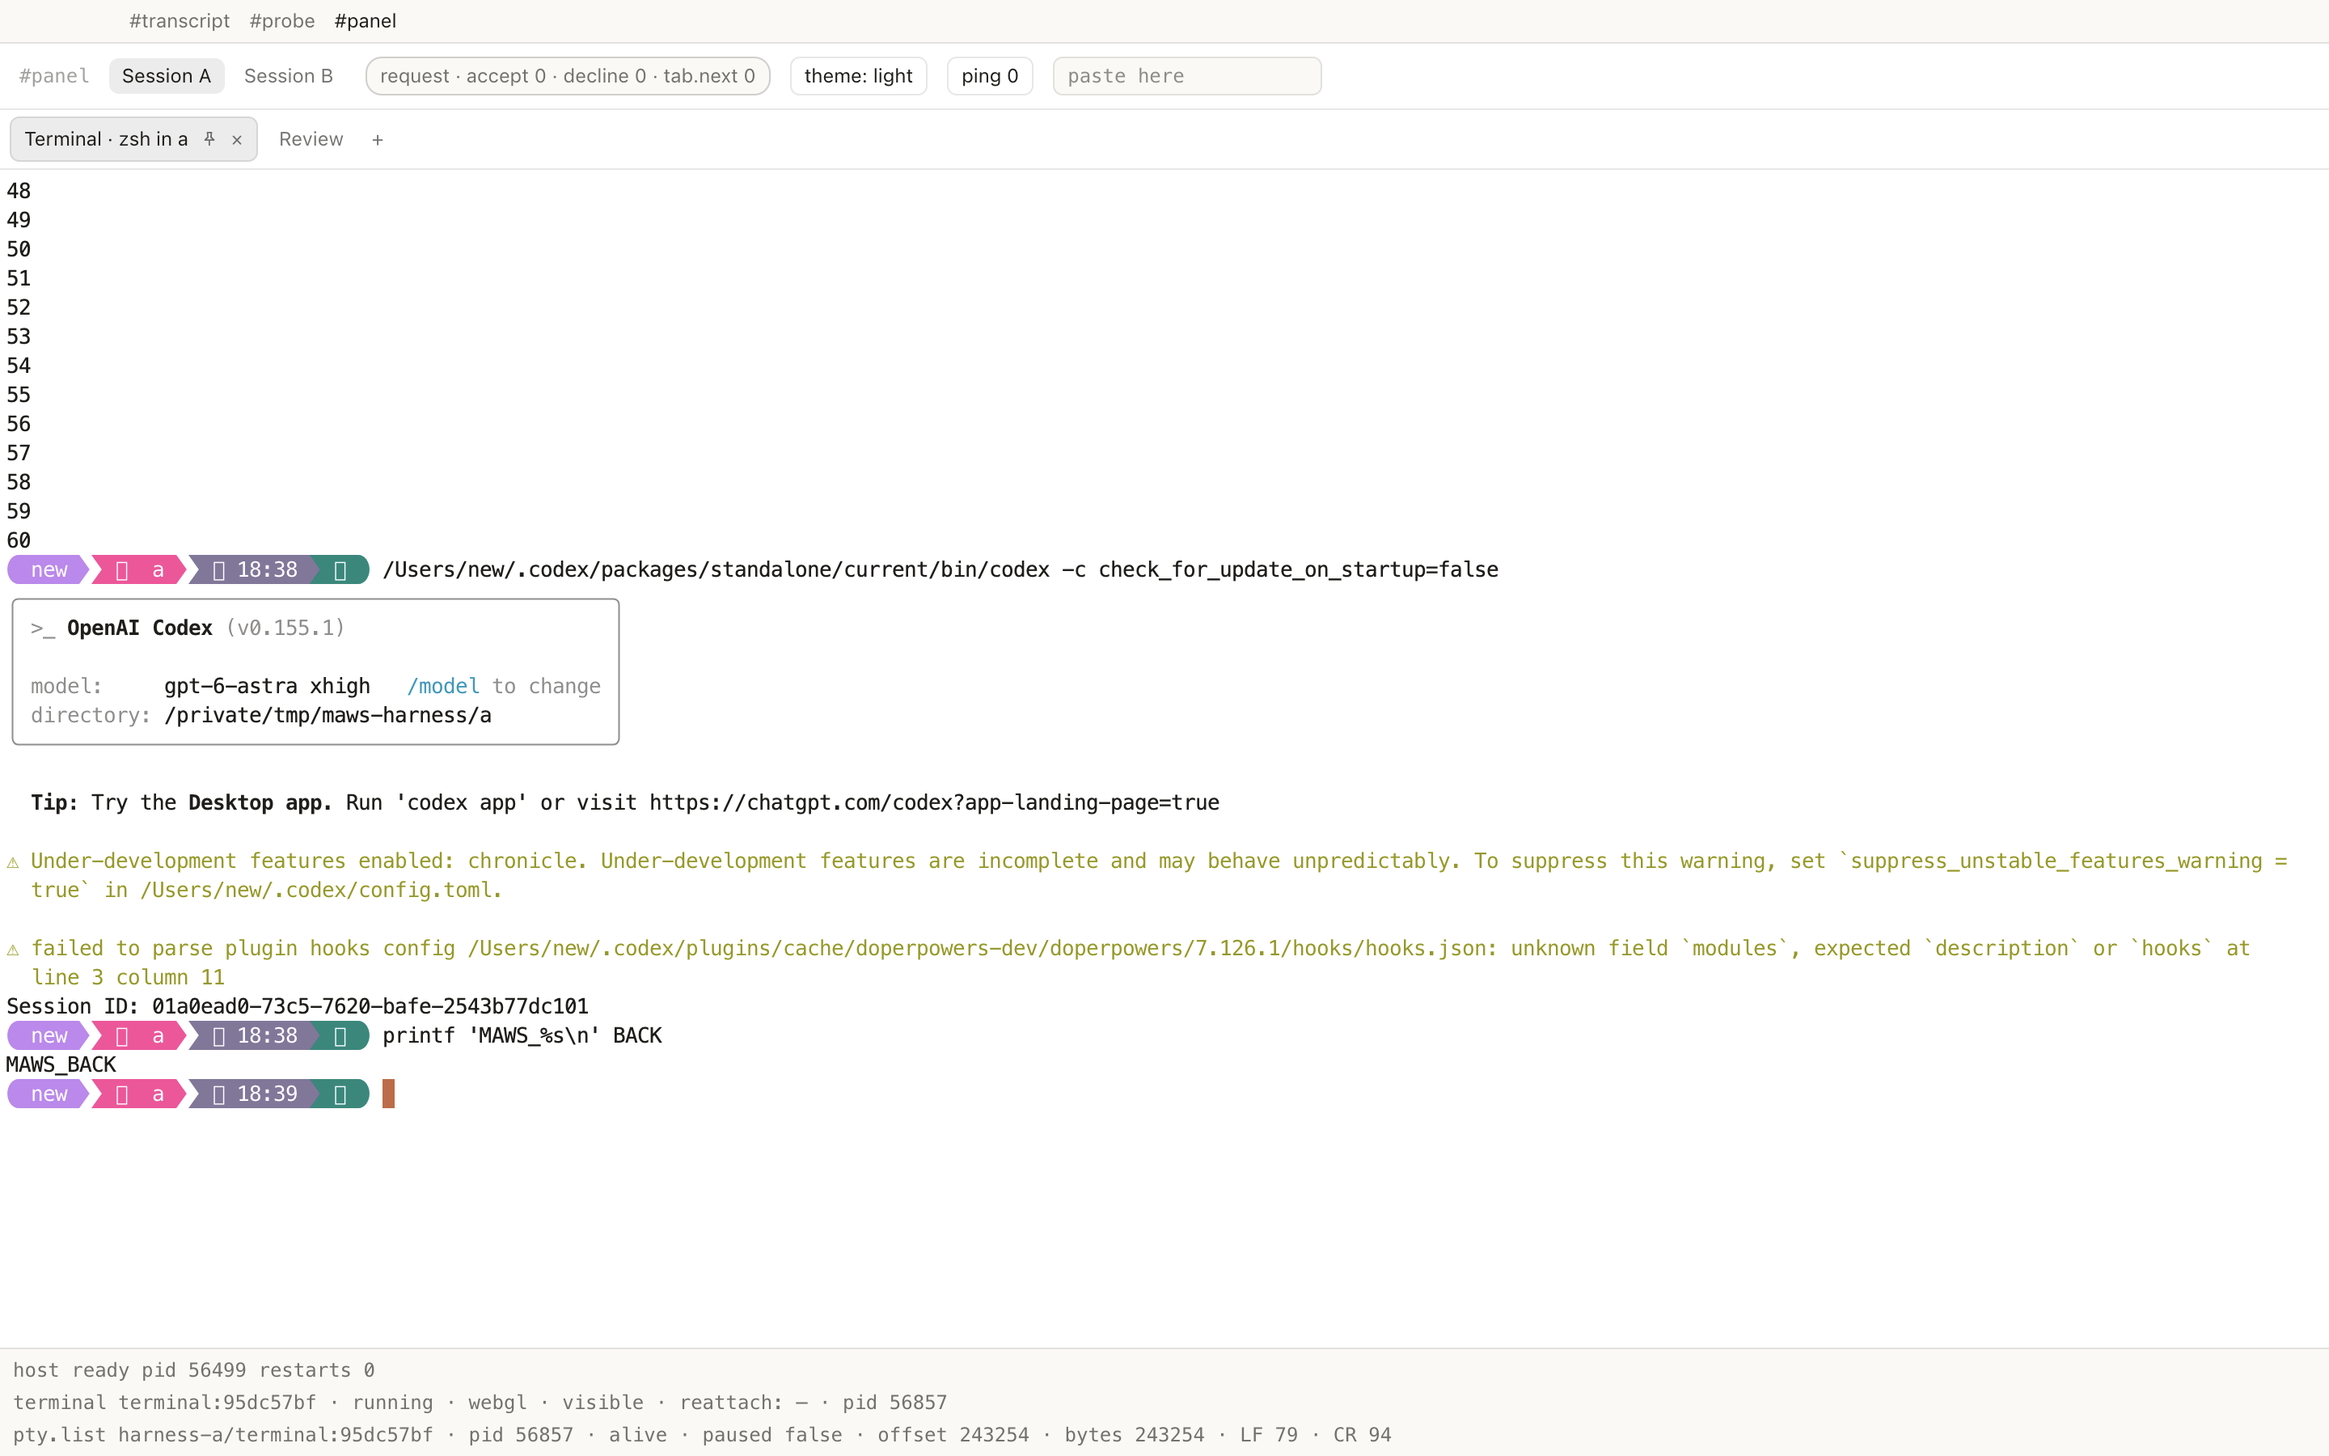
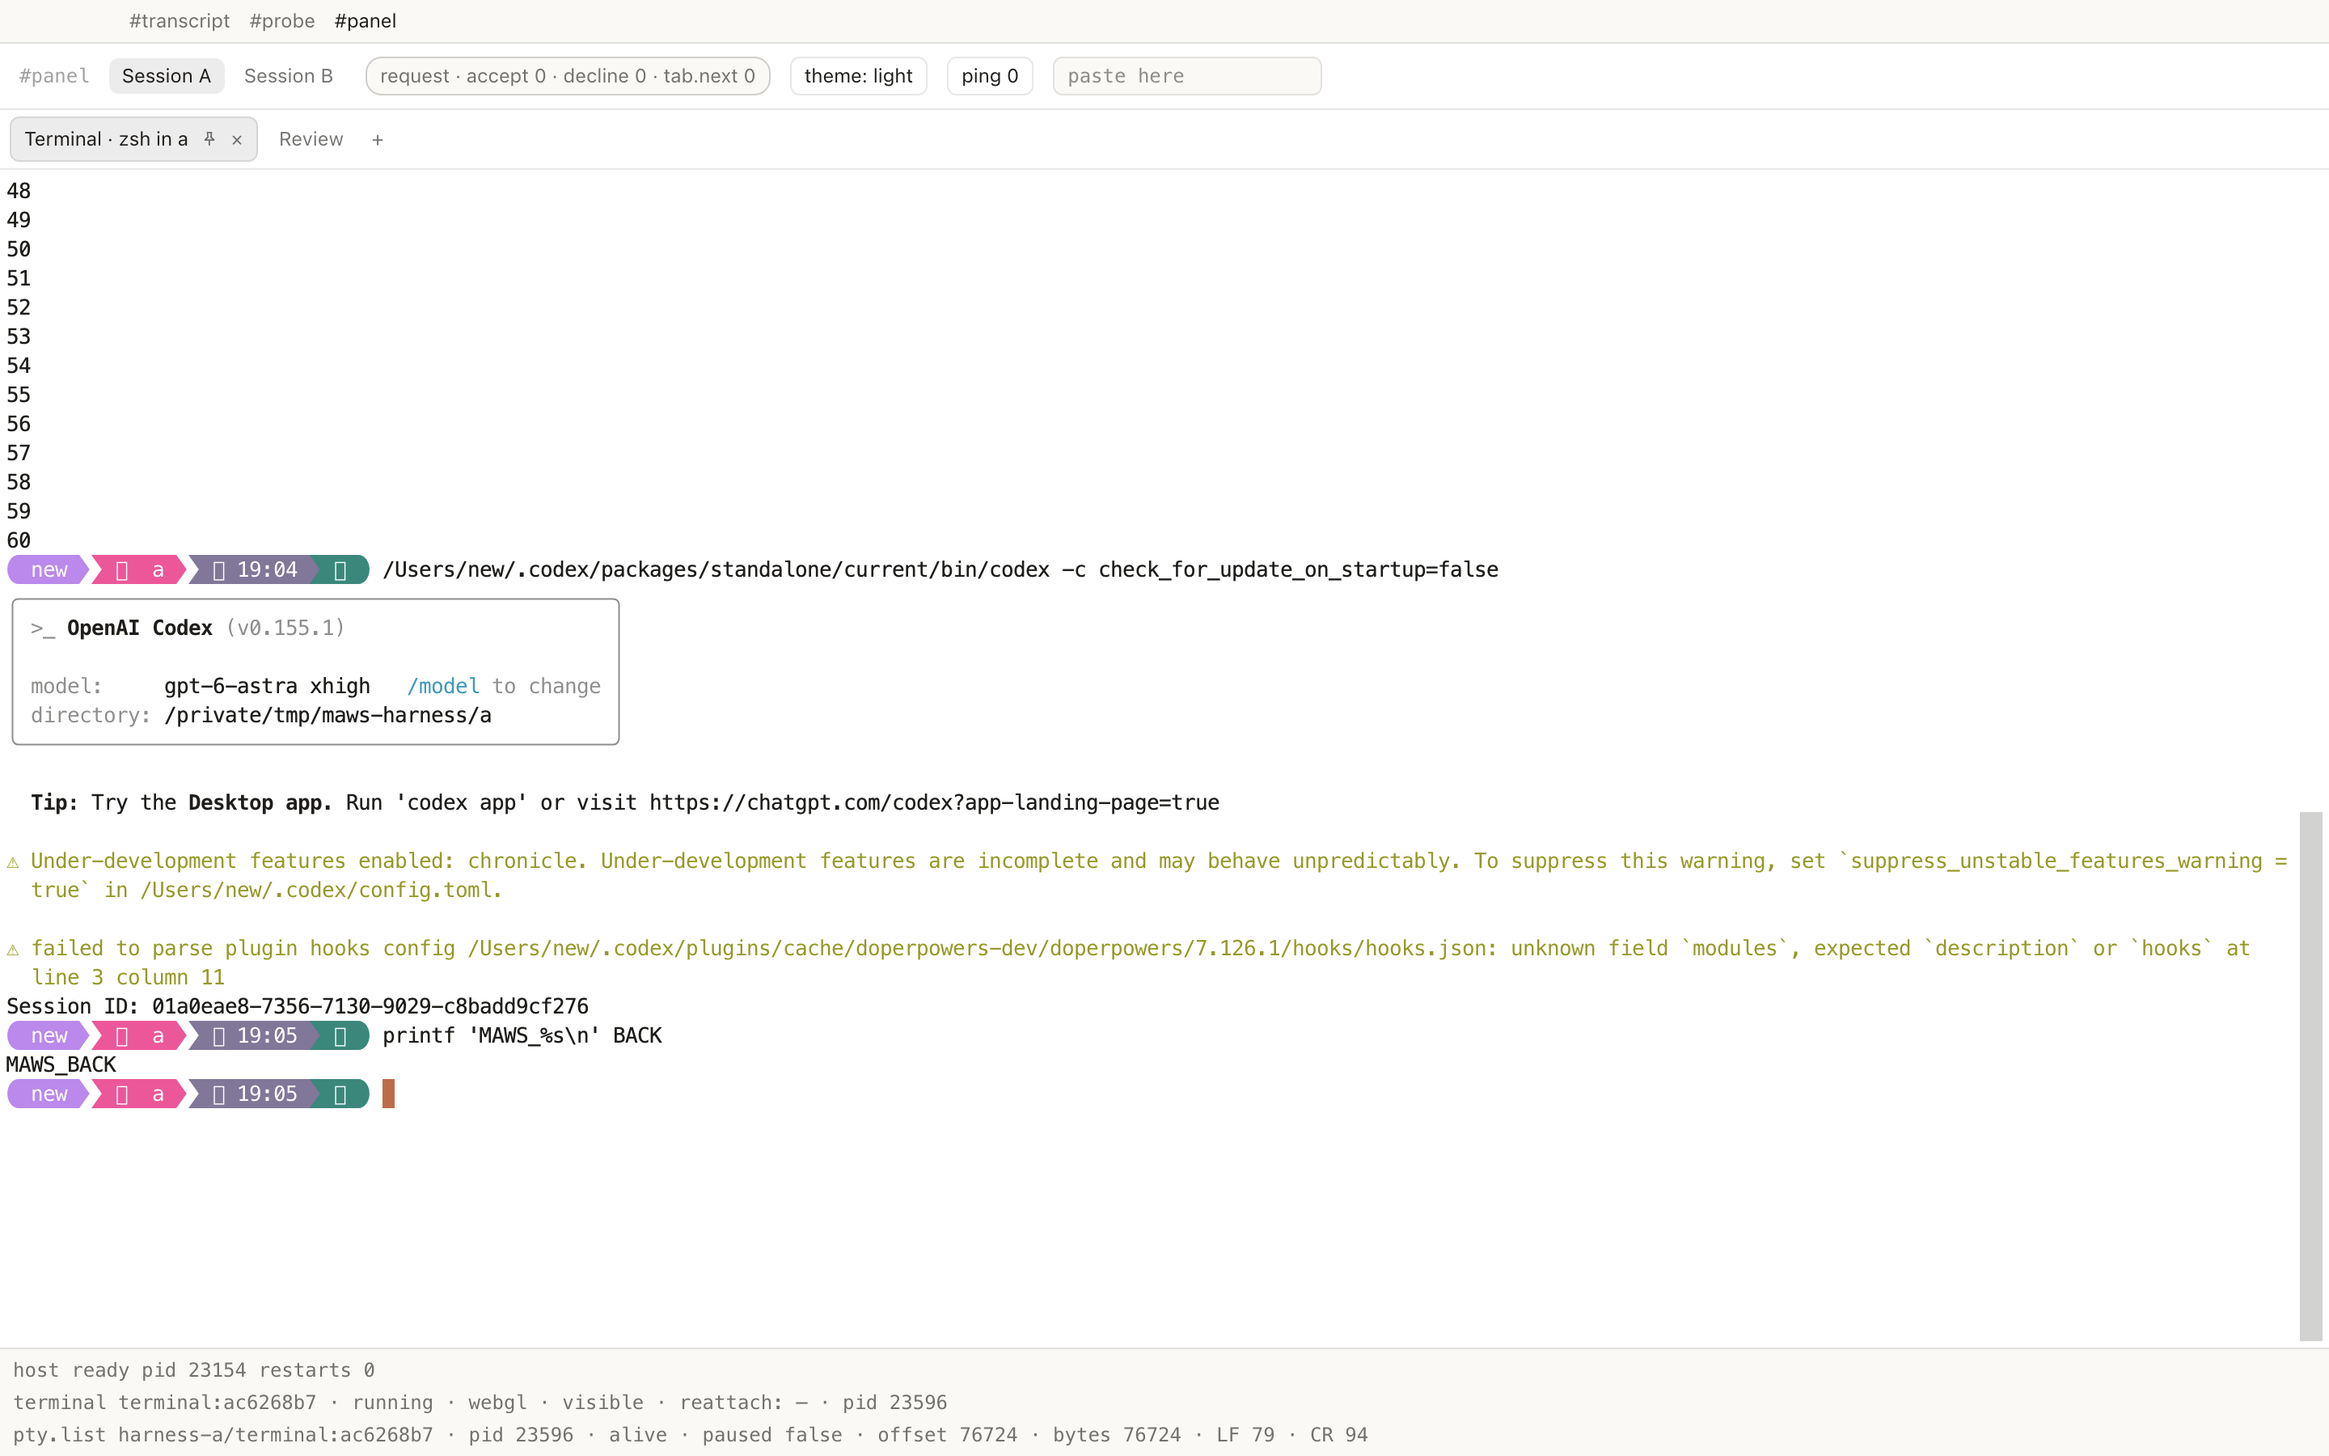
C9 M5: spike findings rows 1 and 13 revised (codex's lost rows are xterm.js's CSI S, mitigated by the adapter's handler; M1's reading kept as history); item 9 evidence after the fix, the pre-fix screenshots kept as *-before-fix

diff --git a/spikes/terminal-probe/findings.md b/spikes/terminal-probe/findings.md
@@ -39,7 +39,7 @@ closes M2 (items 6 browser half and 9 pass/fail), whose results are recorded in 
 
 | # | Item | Workload | Observed | Verdict (phase) | Evidence |
 |---|---|---|---|---|---|
-| 1 | Alternate screen | `less /etc/services` then `q`; `claude` then `/exit`; `codex` then `/quit` (the `exit-check` step: start, then exit, no prompt sent, six prior rows of `seq 1 5` above the command) | `less`: alternate screen on while open, every line above the command's prompt row identical after `q`, the only residue the new prompt. `claude`: uses the alternate screen (`CSI ? 1049 h` once, `l` once, one `CSI 2 J` inside it, no `CSI 3 J`); after `/exit` all six prior rows are identical (`priorScrollbackIntact: true`, `firstDifference: -1`) and 0 TUI rows are left in scrollback. (The conversation run's JSON says `priorScrollbackIntact: false` because that run used the earlier whole-buffer comparison, which counted the prompt row the command was typed on; the reproduction settles it.) `codex`: runs inline and **does not restore**: after `/quit` the six prior rows are gone (`firstDifference: 0`), and its captured stream shows why: no alternate screen, no `CSI 2 J`/`3 J`, but 256 absolute cursor positions (`CSI r;c H`), 7 `CSI J` and 60 `CSI K`: its inline viewport repositions to the top rows and erases there, overwriting what was on the screen. That is codex 0.155.1's own redraw (the same bytes erase those rows in any terminal), not a renderer failure; the conversation run's `priorScrollbackIntact: true` for codex was vacuous (a fresh shell has no rows above its first prompt). Codex also shuts down slowly on a cold start ("Shutting down…" for ~60 s while its model still loads). | **pass** for the alternate-screen programs (`less`, `claude`); codex erases its rows itself (recorded, not counted against the renderer) (M1) | `xterm-01-less-alt.png`, `xterm-01-less-restored.png`, `xterm-01-claude-exit-check-open.png`, `xterm-01-claude-exit-check-restored.png`, `xterm-01-codex-exit-check-open.png`, `xterm-01-codex-exit-check-restored.png`, `xterm-codex-still-open.png` (the slow shutdown); `results/xterm-exit-claude.json`, `results/xterm-exit-codex.json` (before/after lines and `sequences`), `results/xterm-items.json`, `results/xterm-tui-*.json` |
+| 1 | Alternate screen | `less /etc/services` then `q`; `claude` then `/exit`; `codex` then `/quit` (the `exit-check` step: start, then exit, no prompt sent, six prior rows of `seq 1 5` above the command) | `less`: alternate screen on while open, every line above the command's prompt row identical after `q`, the only residue the new prompt. `claude`: uses the alternate screen (`CSI ? 1049 h` once, `l` once, one `CSI 2 J` inside it, no `CSI 3 J`); after `/exit` all six prior rows are identical (`priorScrollbackIntact: true`, `firstDifference: -1`) and 0 TUI rows are left in scrollback. (The conversation run's JSON says `priorScrollbackIntact: false` because that run used the earlier whole-buffer comparison, which counted the prompt row the command was typed on; the reproduction settles it.) `codex`: runs inline and **does not restore**: after `/quit` the six prior rows are gone (`firstDifference: 0`), and its captured stream shows why: no alternate screen, no `CSI 2 J`/`3 J`, but 256 absolute cursor positions (`CSI r;c H`), 7 `CSI J` and 60 `CSI K`: its inline viewport repositions to the top rows and erases there, overwriting what was on the screen. M1 read that as codex 0.155.1's own redraw ("the same bytes erase those rows in any terminal"), not a renderer failure; **overturned at M5 (below)**; the conversation run's `priorScrollbackIntact: true` for codex was vacuous (a fresh shell has no rows above its first prompt). Codex also shuts down slowly on a cold start ("Shutting down…" for ~60 s while its model still loads). | **pass** for the alternate-screen programs (`less`, `claude`) (M1). **Codex: failed at M5, fixed in the adapter.** M5 (2026-09-29) found the rows are lost by xterm.js, not by codex: codex scrolls its inline viewport with `CSI 1;39 r` `CSI 10 S` `CSI r`, and xterm.js 6.0.0's `scrollUp` (`src/common/InputHandler.ts` lines 1429 to 1438, unchanged in 6.1.0-beta.304) splices the rows a scroll-up moves out of the region and discards them whatever the region's top, where tmux 3.7b (and, per openai/codex #27644, iTerm2 and kitty) put them in scrollback; on the same recorded bytes `@xterm/headless` lost 17 of 60 shell rows and tmux none. Mitigated by the adapter's `CSI S` handler (`src/renderer/src/terminal/scroll-up.ts`, the M5 ruling): after it, codex started and quit in a Terminal tab keeps all 61 rows above its command identical, all 60 `seq` rows present and in order (**pass**, M5 fix) | `xterm-01-less-alt.png`, `xterm-01-less-restored.png`, `xterm-01-claude-exit-check-open.png`, `xterm-01-claude-exit-check-restored.png`, `xterm-01-codex-exit-check-open.png`, `xterm-01-codex-exit-check-restored.png`, `xterm-codex-still-open.png` (the slow shutdown); `results/xterm-exit-claude.json`, `results/xterm-exit-codex.json` (before/after lines and `sequences`), `results/xterm-items.json`, `results/xterm-tui-*.json` |
 | 2 | Synchronized output | `claude` with `CLAUDE_CODE_FORCE_SYNC_OUTPUT=1` (the shipped environment), once through `(unset CLAUDE_CODE_FORCE_SYNC_OUTPUT; exec claude)`; `codex` streaming | `?2026h` count: claude 3 at startup and 89 during the "count to 20" turn with the variable; **0** without it (xterm 6.0.0 does not answer XTVERSION; both TUIs queried it, neither got an answer). Codex: 105 at startup, 308 during its turn. Frames visibly whole in every screenshot. | **pass** (M1) | `xterm-11-claude-streamed.png`, `xterm-02-claude-nosync.png`, `xterm-11-codex-streamed.png`; `results/xterm-tui-claude.json` (`startup.syncFrames`, `conversation.syncFramesDuringTurn`, `noSync`) |
 | 3 | CJK and emoji width | `fixtures/width.json` (12 strings) printed with `CSI 6 n`, reply parsed from the terminal's own answer | Reported column minus one equals the expected width for all 12: ASCII 11, `한글 입력` 9, `日本語` 6, `中文` 4, `😀` 2, `👍🏽` 2, `👨👩👧👦` 2, `🇰🇷` 2, `é` 1 (both forms), `┌─┐` 3, tab 8. Claude's and codex's borders align around the Korean and Japanese composer text. | **pass** (M1) | `xterm-03-width.png`, `xterm-04-*-korean-japanese.png`; `results/xterm-width.json` |
 | 4 | IME | Korean and Japanese committed into each TUI's composer through Playwright's `insertText` | `한글 입력 にほんご` appears exactly in claude's and codex's composer and in `probe().line()`; nothing duplicated or dropped. **Composition itself (the underline while composing, the 2-set Korean keyboard) cannot be driven from Playwright**: pending the owner's manual run at M5 (steps below). | **pass on committed text; composition pending owner (M5)** | `xterm-04-claude-korean-japanese.png`, `xterm-04-codex-korean-japanese.png` |
@@ -51,7 +51,7 @@ closes M2 (items 6 browser half and 9 pass/fail), whose results are recorded in 
 | 10 | Sleep and resume | `simulateContextLoss` (WEBGL_lose_context); `pmset sleepnow` | Context loss: `webgl` → `dom` in 3.0 s (the addon's own restore wait), the buffer intact, `echo after-loss-ok` answered, hide-and-show returned `webgl`. **`pmset sleepnow` is pending the owner's manual run at M5.** | **pass on simulated loss; sleep pending owner (M5)** | `xterm-10-after-context-loss.png`; `results/xterm-items.json` (`contextLoss`) |
 | 11 | Both TUIs, end to end | one "count to 20" conversation in each, from the probe's shell in the scratch cwd | Both start, draw, stream the answer, take input and exit cleanly; claude's frame, composer and status bars are whole throughout; codex's welcome box, tip and transcript draw without misalignment. | **pass** (M1) | `xterm-11-claude-frame.png`, `xterm-11-claude-streamed.png`, `xterm-11-codex-frame.png`, `xterm-11-codex-streamed.png`; `recordings/{claude,codex}.rec` |
 | 12 | Mouse wheel over `claude` (research) | wheel up 300 px and back over the TUI (mouse tracking `any`) | No `CSI < … M` sequences in any buffer line, composer clean. Same over codex. | **pass** (M1) | `xterm-12-claude-after-wheel.png`, `xterm-12-codex-after-wheel.png`; `results/xterm-tui-*.json` (`wheel`) |
-| 13 | Codex scroll-region inserts (research) | `codex` in its default (inline) mode, one turn of history; plus a synthetic DECSTBM + IL/DL screen | No gaps in codex's transcript; the synthetic scroll-region screen matches its expected nine rows exactly. Codex 0.155.1 was run in its default mode only; the 20-turn stress was not bought (one turn per TUI was the budget). | **pass on what was observed** (M1) | `xterm-13-scroll-region.png`, `xterm-11-codex-streamed.png`; `results/xterm-scroll-region.json` |
+| 13 | Codex scroll-region inserts (research) | `codex` in its default (inline) mode, one turn of history; plus a synthetic DECSTBM + IL/DL screen | No gaps in codex's transcript; the synthetic scroll-region screen matches its expected nine rows exactly. Codex 0.155.1 was run in its default mode only; the 20-turn stress was not bought (one turn per TUI was the budget). **M5 (2026-09-29): the M1 observation was too narrow.** The one turn checked showed no gap in what was compared; the mechanism of #27644 is present on every inline history insert: codex scrolls the region with `CSI S`, and xterm.js 6.0.0's `scrollUp` discards what leaves the region (`InputHandler.ts` 1429 to 1438) instead of adding it to scrollback. Reproduced at M5 on codex's start-and-quit alone (17 of 60 shell rows lost) and on the lone `CSI 1;39r CSI 10S CSI r` (10 lost; tmux keeps both). | **pass on what was observed** (M1); **fail on the mechanism** (M5), **mitigated** by the adapter's `CSI S` handler (M5 fix; headless suite `terminal scroll-up keeps rows in scrollback`) | `xterm-13-scroll-region.png`, `xterm-11-codex-streamed.png`; `results/xterm-scroll-region.json`, `m5-09-codex-exited-before-fix.png`, `m5-09-codex-exited.png` |
 | 14 | Kitty keyboard (research) | start each TUI; Shift+Enter, ⌥←, ⌃← through `cat` | Both TUIs sent `CSI ? u`; xterm 6.0.0 never answered (no `CSI ? flags u` seen on the input side), so both fell back to legacy keys. Shift+Enter arrives as `\r` (plain Enter), ⌥← as `CSI 1;3 D`, ⌃← as `CSI 1;5 D`. | **recorded** (informational) | `results/xterm-items.json` (`keys`), `results/xterm-tui-*.json` (`startup.kitty*`) |
 | 15 | Bytes and CSP (research) | console under the harness CSP | Not applicable to xterm (no WASM). | — | `results/smoke.json` |
 | 16 | Input echo latency (measurement) | `cat`, 100 single characters, each typed as soon as the previous echo is parsed | M1: p50 0.3 ms, p95 1.0 ms, max 4.9 ms (typed through `pty.write`, echoed by the tty, polled through `probe().line()`). M2 gate, on the coalescing host: p95 5.8, 5.8, 5.7 ms in three runs (p50 5.4, max 8.8): back-to-back keystrokes fall inside the host's 5 ms coalescing window; keystrokes 20 ms apart echo at p95 0.57 ms host-side (see the gate measurements). | **recorded**; p95 ≤ 30 ms (both phases) | `results/xterm-latency-m1.json` (M1), `results/xterm-latency.json` (M2 gate) |
@@ -152,10 +152,10 @@ rarely or never: W3's producer runs at about the pipeline's own rate, so a pause
 **xterm.js ships.** `@xterm/xterm` 6.0.0 with the WebGL addon passed every renderer item judged in M1 (1 for the
 alternate-screen programs `less` and `claude`, reproduced without a prompt; 2, 3, 5, 7, 8, 10 simulated, 11, 12, 13,
 16 and the M1 halves of 4 and 6); the two halves that need a human, Korean IME composition (4) and `pmset sleepnow`
-(10), are pending the owner's run at M5 and were not marked passed here. Codex does not restore the screen after
-`/quit` because its inline viewport overwrites the rows above it with absolute positioning and erase-line sequences
-(row 1); that is recorded as the program's behaviour, not counted for or against the renderer, and it is what the
-Terminal tab will show for codex in any terminal. At the M2 transport gate it passed both transport items on the
+(10), are pending the owner's run at M5 and were not marked passed here. M1 recorded that codex does not restore the screen after
+`/quit` and read it as codex's inline viewport overwriting the rows above it (row 1); M5 overturned that reading: the
+rows are discarded by xterm.js 6.0.0's `CSI S` (`scrollUp`), which tmux, iTerm2 and kitty route into scrollback, and the
+adapter now does the same through a guarded `CSI S` handler (M5 ruling; rows 1 and 13). At the M2 transport gate it passed both transport items on the
 production transport: **item 9**, the full W1, W2 and W3 floods (50, 50 and 168.9 MB of output) arrived byte-exact
 with every line feed, the last lines right and frame p95 at 10.1 ms or less in three consecutive runs (35 to 47, 44
 to 46 and about 9.6 MB/s), the host pausing the pty whenever the producer outran the pipeline and the page never
@@ -218,6 +218,8 @@ whose wait was too short),
 `ghostty-06-links.png`, `ghostty-07-scrollback-top.png`, `ghostty-09-W3-end.png`, `ghostty-10-palette-light.png`,
 `ghostty-10-palette-dark.png`, `ghostty-11-claude-replay-early.png`, `ghostty-11-claude-replay-end.png`,
 `ghostty-11-codex-replay-early.png`, `ghostty-11-codex-replay-end.png`, `ghostty-13-scroll-region.png`.
+
+M5 acceptance run (the `#panel` Terminal tab, 189×40): `m5-09-codex-{frame,korean,after-wheel,exited}-before-fix.png` (17 shell rows lost at `/quit`), `m5-09-codex-{frame,korean,after-wheel,exited}.png` (after the adapter's `CSI S` handler: all 60 kept), `m5-09-claude-*` likewise, `m5-09-codex-self-update.png` (codex 0.155.1 starting its own update on launch; cut off), `m5-03-*.png` and `m5-07-*.png` (acceptance items 3 and 7). The recorded codex start-and-quit is the fixture `src/renderer/src/terminal/__fixtures__/codex-0.155.1-start-quit.bin` of the headless suite.
 
 `results/`: `smoke.json`, `console.json` (both rewritten by the last gate run), `xterm-W1.json`, `xterm-W2.json`,
 `xterm-W3.json` (the M2 gate's third run, with its `gate` judgement), `xterm-W1-m1.json`, `xterm-W2-m1.json`,
